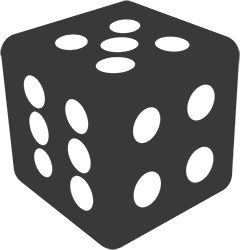
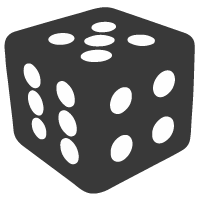
tile changed

diff --git a/app/css/style.css b/app/css/style.css
@@ -9,15 +9,17 @@ html, body, iframe
 .tile
 {
 	z-index:0;
-	color: white;
+	color: black;
 	display: flex;
 	height:100%;
+	justify-content: center;
+	align-items: center;
 }
 
-.tile .title
-{
-	margin: auto;
+.tile .tile-img{
+	max-height: 92%;
 }
+
 
 .fullscreen
 {
@@ -30,6 +32,18 @@ html, body, iframe
 	width: 100%;
 	height: 100%;
 	border:none;
+}
+
+.tile-div{
+	max-height: 100%;
+	display: flex;
+	flex-flow: row nowrap;
+	height: 100%;
+	align-items: center;
+	justify-content: space-between;
+	padding-left: 9%;
+	padding-right: 9%;
+	width: 100%;
 }
 
 .custom-button
@@ -120,10 +134,9 @@ md-dialog.fullscreen
 	min-width: 100%;
 }
 
-.event-pic {
-	max-width: 100%;
-}
 
+/* Css to lock the div at a 16:9 resolution, cropping and centering the image in
+case it doesn't satisfy the ratio  */
 .cutter
 {
     width: 100%;
@@ -131,10 +144,12 @@ md-dialog.fullscreen
 	  background: blue;
     overflow: hidden;
     position: relative;
-		box-shadow: 0 1px 3px 0 rgba(0,0,0,.2), 0 1px 1px 0 rgba(0,0,0,.14), 0 2px 1px -1px rgba(0,0,0,.12);
+		box-shadow: 0 1px 3px 0 rgba(0,0,0,.2), 0 1px 1px 0 rgba(0,0,0,.14),
+		0 2px 1px -1px rgba(0,0,0,.12);
 		margin-bottom: 4%;
 }
-img {
+
+.event-pic {
     position:absolute;
     left: -100%;
     right: -100%;
@@ -143,9 +158,10 @@ img {
     margin: auto;
     min-height: 100%;
     min-width: 100%;
+		max-width: 100%;
 }
 
-
+/**/
 
 @keyframes pulse {
 	0%   { background-color: #ef5350 ; }

diff --git a/app/index.html b/app/index.html
@@ -15,9 +15,12 @@
 	<link href="//fonts.googleapis.com/css?family=Roboto:300" rel="stylesheet">
 	<link rel="stylesheet" href="css/style.css">
 </head>
-<body ng-if='$root.initialized' ng-style='{ "backgroundColor" : $root.fullscreen ? "#ffee58" : "#4cae50" }' layout='column'>
+<body ng-if='$root.initialized' ng-style='{ "backgroundColor" : $root.fullscreen ? "#ffee58" : "#ffee58" }' layout='column'>
 	<div ng-hide="$root.fullscreen" ng-controller='MainController as vm' class='tile'>
-		<span class='title md-display-1'> Tapplaner <span>
+		<div class="tile-div">
+			<img src="img/dice.png" class="tile-img"/>
+			<span class='title md-display-1'> Tapplaner </span>
+		</div>
 	</div>
 	<div ng-show="$root.fullscreen" class='fullscreen'>
 		<div id="initial">

diff --git a/app/js/app.js b/app/js/app.js
@@ -68,7 +68,7 @@ pw.controller('MainController', ['$rootScope', '$http', function($rootScope, $ht
 			vm.failed = true
 			return;
 		}
-		$http.get('https://tapplaner.herokuapp.com/events?lat='+result.data.latitude+'&lng='+result.data.longitude+'&distance=2000&sort=popularity&until='+vm.date+'&accessToken=1954493638107409|zGZC5kWhiCVhPw0GBd7M-68RHAI').then(
+		$http.get('https://tapplaner.herokuapp.com/events?lat='+result.data.latitude+'&lng='+result.data.longitude+'&distance=2000&sort=popularity&until='+vm.date+'&accessToken=1786743151638500|YtPMYgzR-YYQeFYq-b9CzGRxaNE').then(
       function(response){
   			vm.eventdata = response.data.events;
   		  $rootScope.loading = false;
